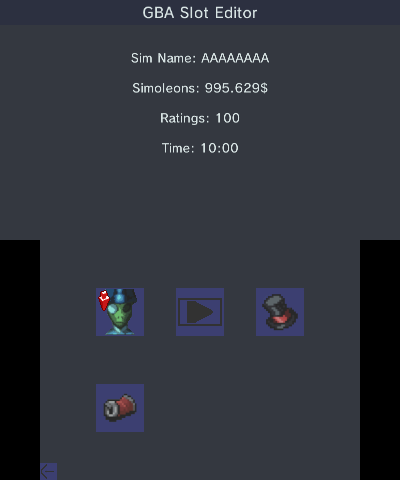
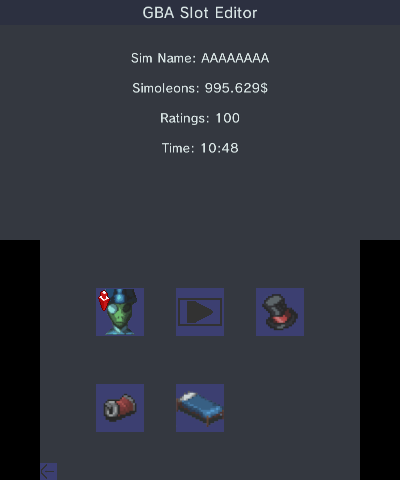
See desc for more.
- [GBA]: Added GBA Item Editing for: Pawn Shop, Saloon, Skill Shop, Mailbox and Inventory.

- [CORE]: Some fixes + updates.

Changed region(s): [[0.42, 0.7812, 0.57, 0.9062], [0.54, 0.2812, 0.6, 0.3125], [0.24, 0.5938, 0.27, 0.625]]

diff --git a/3ds/source/screens/editor/gba/GBAItemEditor.cpp b/3ds/source/screens/editor/gba/GBAItemEditor.cpp
@@ -1,0 +1,140 @@
+/*
+*   This file is part of Sim2Editor
+*   Copyright (C) 2020-2021 Universal-Team
+*
+*   This program is free software: you can redistribute it and/or modify
+*   it under the terms of the GNU General Public License as published by
+*   the Free Software Foundation, either version 3 of the License, or
+*   (at your option) any later version.
+*
+*   This program is distributed in the hope that it will be useful,
+*   but WITHOUT ANY WARRANTY; without even the implied warranty of
+*   MERCHANTABILITY or FITNESS FOR A PARTICULAR PURPOSE.  See the
+*   GNU General Public License for more details.
+*
+*   You should have received a copy of the GNU General Public License
+*   along with this program.  If not, see <http://www.gnu.org/licenses/>.
+*
+*   Additional Terms 7.b and 7.c of GPLv3 apply to this file:
+*       * Requiring preservation of specified reasonable legal notices or
+*         author attributions in that material or in the Appropriate Legal
+*         Notices displayed by works containing it.
+*       * Prohibiting misrepresentation of the origin of that material,
+*         or requiring that modified versions of such material be marked in
+*         reasonable ways as different from the original version.
+*/
+
+#include "Common.hpp"
+#include "GBAItemEditor.hpp"
+#include "ListSelection.hpp"
+#include "Strings.hpp"
+
+/* Go back. */
+void GBAItemEditor::Back() {
+	Gui::screenBack();
+	return;
+};
+
+void GBAItemEditor::Draw(void) const {
+	GFX::DrawTop();
+	Gui::DrawStringCentered(0, 3, 0.6f, TEXT_COLOR, "GBA Item Editor");
+
+	GFX::DrawBottom();
+
+	/* Draw Tabs. */
+	Gui::Draw_Rect(0, 0, 64, 20, (this->Tab == Tabs::Pawnshop ? KBD_KEYPRESSED : KD_KEYUNPRESSED));
+	Gui::Draw_Rect(64, 0, 64, 20, (this->Tab == Tabs::Saloon ? KBD_KEYPRESSED : KD_KEYUNPRESSED));
+	Gui::Draw_Rect(128, 0, 64, 20, (this->Tab == Tabs::Skills ? KBD_KEYPRESSED : KD_KEYUNPRESSED));
+	Gui::Draw_Rect(192, 0, 64, 20, (this->Tab == Tabs::Mailbox ? KBD_KEYPRESSED : KD_KEYUNPRESSED));
+	Gui::Draw_Rect(256, 0, 64, 20, (this->Tab == Tabs::Inventory ? KBD_KEYPRESSED : KD_KEYUNPRESSED));
+
+	Gui::DrawString(0 + 1, 3, 0.45f, TEXT_COLOR, "Pawn Shop");
+	Gui::DrawString(64 + 13, 3, 0.45f, TEXT_COLOR, "Saloon");
+	Gui::DrawString(128 + 18, 3, 0.45f, TEXT_COLOR, "Skills");
+	Gui::DrawString(192 + 10, 3, 0.45f, TEXT_COLOR, "Mailbox");
+	Gui::DrawString(256 + 6, 3, 0.45f, TEXT_COLOR, "Inventory");
+
+	for (uint8_t Idx = 0; Idx < 6; Idx++) {
+		Gui::DrawSprite(GFX::Sprites, sprites_stripe_idx, 250, this->Positions[5 + Idx].Y); // Draw Option Stripes.
+		Gui::DrawString(30, 34 + (Idx * 36), 0.5f, TEXT_COLOR, Strings::GBAItemNames_EN[this->ActiveItemGroup->ID(Idx)], 200);
+	}
+
+	Gui::Draw_Rect(this->Positions[11].X, this->Positions[11].Y, this->Positions[11].W, this->Positions[11].H, KBD_KEYPRESSED); // Back Icn.
+	Gui::DrawSprite(GFX::Sprites, sprites_back_btn_idx, this->Positions[11].X, this->Positions[11].Y);
+	Pointer::Draw();
+};
+
+/*
+	Select an Item from the List and set it, if changed.
+
+	const uint8_t Slot: The Item Slot to edit.
+*/
+void GBAItemEditor::SelectItem(const uint8_t Slot) {
+	std::unique_ptr<ListSelection> Ovl = std::make_unique<ListSelection>(Strings::GBAItemNames_EN, "Select an Item.", this->ActiveItemGroup->ID(Slot));
+	const uint8_t ID = Ovl->Action();
+
+	if (ID != this->ActiveItemGroup->ID(Slot)) this->ActiveItemGroup->ID(Slot, ID);
+};
+
+/*
+	Switch Tabs and initialize it to the ActiveItemGroup.
+
+	const Tabs T: The Tab which to switch to.
+*/
+void GBAItemEditor::SwitchTab(const Tabs T) {
+	this->Tab = T;
+
+	switch(this->Tab) {
+		case Tabs::Pawnshop:
+			this->ActiveItemGroup = this->Slot->PawnShop();
+			break;
+
+		case Tabs::Saloon:
+			this->ActiveItemGroup = this->Slot->Saloon();
+			break;
+
+		case Tabs::Skills:
+			this->ActiveItemGroup = this->Slot->Skills();
+			break;
+
+		case Tabs::Mailbox:
+			this->ActiveItemGroup = this->Slot->Mailbox();
+			break;
+
+		case Tabs::Inventory:
+			this->ActiveItemGroup = this->Slot->Inventory();
+			break;
+	}
+};
+
+void GBAItemEditor::Logic(uint32_t hDown, uint32_t hHeld, touchPosition touch) {
+	Pointer::FrameHandle();
+	Pointer::ScrollHandle(hHeld);
+	uint32_t hRepeat = hidKeysDownRepeat();
+
+	if (hDown & KEY_A) {
+		for (auto &Pos : this->Positions) {
+			if (Pointer::Callback(Pos, true)) {
+				break;
+			}
+		}
+	}
+
+	if (hDown & KEY_TOUCH) {
+		for (auto &Pos : this->Positions) {
+			if (Touching(Pos, touch, true)) {
+				break;
+			}
+		}
+	}
+
+	if (hDown & KEY_B) this->Back();
+
+	if (hRepeat & KEY_L) {
+		if (this->Tab != Tabs::Pawnshop) this->SwitchTab((Tabs)((uint8_t)this->Tab - 0x1));
+	}
+
+	if (hRepeat & KEY_R) {
+		if (this->Tab != Tabs::Inventory) this->SwitchTab((Tabs)((uint8_t)this->Tab + 0x1));
+	}
+};

diff --git a/3ds/include/screens/editor/gba/GBAItemEditor.hpp b/3ds/include/screens/editor/gba/GBAItemEditor.hpp
@@ -24,35 +24,46 @@
 *         reasonable ways as different from the original version.
 */
 
-#ifndef _SIM2EDITOR_GBA_SLOT_EDITOR_HPP
-#define _SIM2EDITOR_GBA_SLOT_EDITOR_HPP
+#ifndef _SIM2EDITOR_GBA_ITEM_EDITOR_HPP
+#define _SIM2EDITOR_GBA_ITEM_EDITOR_HPP
 
+#include "GBAItem.hpp"
 #include "GBASlot.hpp"
 #include "Pointer.hpp"
 #include "screen.hpp"
 #include <vector>
 
-class GBASlotEditor : public Screen {
+class GBAItemEditor : public Screen {
 public:
-	GBASlotEditor(std::shared_ptr<GBASlot> GBASlot) : Slot(std::move(GBASlot)) { Pointer::SetPos(this->Positions[0]); };
+	GBAItemEditor(std::shared_ptr<GBASlot> &Slot) : Slot(Slot) { this->SwitchTab(Tabs::Pawnshop); };
 	void Draw(void) const override;
 	void Logic(u32 hDown, u32 hHeld, touchPosition touch) override;
 private:
-	std::shared_ptr<GBASlot> Slot = nullptr;
+	enum class Tabs : uint8_t { Pawnshop, Saloon, Skills, Mailbox, Inventory };
 
-	void GotoCastEditor();
-	void GotoEpisodeEditor();
-	void GotoMoveEditor();
-	void GotoGeneralEditor();
-	void GotoItemEditor();
+	Tabs Tab = Tabs::Pawnshop;
+	std::shared_ptr<GBASlot> Slot = nullptr;
+	std::unique_ptr<GBAItem> ActiveItemGroup = nullptr;
+
 	void Back();
+	void SelectItem(const uint8_t Slot);
+	void SwitchTab(const Tabs T);
 
 	const std::vector<PointerStr> Positions = {
-		{ 56, 48, 48, 48, [this]() { this->GotoCastEditor(); } },
-		{ 136, 48, 48, 48, [this]() { this->GotoEpisodeEditor(); } },
-		{ 216, 48, 48, 48, [this]() { this->GotoMoveEditor(); } },
-		{ 56, 144, 48, 48, [this]() { this->GotoGeneralEditor(); } },
-		{ 136, 144, 48, 48, [this]() { this->GotoItemEditor(); } },
+		{ 0, 0, 64, 20, [this]() { this->SwitchTab(Tabs::Pawnshop); } },
+		{ 64, 0, 64, 20, [this]() { this->SwitchTab(Tabs::Saloon); } },
+		{ 128, 0, 64, 20, [this]() { this->SwitchTab(Tabs::Skills); } },
+		{ 192, 0, 64, 20, [this]() { this->SwitchTab(Tabs::Mailbox); } },
+		{ 256, 0, 64, 20, [this]() { this->SwitchTab(Tabs::Inventory); } },
+
+		{ 250, 30, 24, 24, [this]() { this->SelectItem(0); } },
+		{ 250, 66, 24, 24, [this]() { this->SelectItem(1); } },
+		{ 250, 102, 24, 24, [this]() { this->SelectItem(2); } },
+		{ 250, 138, 24, 24, [this]() { this->SelectItem(3); } },
+		{ 250, 174, 24, 24, [this]() { this->SelectItem(4); } },
+		{ 250, 210, 24, 24, [this]() { this->SelectItem(5); } },
+
+
 		{ 0, 223, 17, 17, [this]() { this->Back(); } }
 	};
 };

diff --git a/3ds/source/screens/editor/gba/GBASlotEditor.cpp b/3ds/source/screens/editor/gba/GBASlotEditor.cpp
@@ -28,6 +28,7 @@
 #include "GBACastEditor.hpp"
 #include "GBAEpisodeEditor.hpp"
 #include "GBAGeneralEditor.hpp"
+#include "GBAItemEditor.hpp"
 #include "GBASlotEditor.hpp"
 #include "GBASocialMoveEditor.hpp"
 #include "SimUtils.hpp"
@@ -40,9 +41,10 @@ void GBASlotEditor::GotoEpisodeEditor() { Gui::setScreen(std::make_unique<GBAEpi
 void GBASlotEditor::GotoMoveEditor() { Gui::setScreen(std::make_unique<GBASocialMoveEditor>(this->Slot), false, true); };
 /* Go to General Editor. */
 void GBASlotEditor::GotoGeneralEditor() { Gui::setScreen(std::make_unique<GBAGeneralEditor>(this->Slot), false, true); };
+/* Go to Item Editor. */
+void GBASlotEditor::GotoItemEditor() { Gui::setScreen(std::make_unique<GBAItemEditor>(this->Slot), false, true); };
 /* Go back to Editor. */
 void GBASlotEditor::Back() {
-	Pointer::SetPos(100, 80);
 	Gui::screenBack();
 	return;
 };
@@ -70,8 +72,11 @@ void GBASlotEditor::Draw(void) const {
 	Gui::Draw_Rect(this->Positions[3].X, this->Positions[3].Y, this->Positions[3].W, this->Positions[3].H, KBD_KEYPRESSED); // General Icn.
 	Gui::DrawSprite(GFX::Sprites, sprites_collectables_btn_idx, this->Positions[3].X, this->Positions[3].Y);
 
-	Gui::Draw_Rect(this->Positions[4].X, this->Positions[4].Y, this->Positions[4].W, this->Positions[4].H, KBD_KEYPRESSED); // Back Icn.
-	Gui::DrawSprite(GFX::Sprites, sprites_back_btn_idx, this->Positions[4].X, this->Positions[4].Y);
+	Gui::Draw_Rect(this->Positions[4].X, this->Positions[4].Y, this->Positions[4].W, this->Positions[4].H, KBD_KEYPRESSED); // Item Icn.
+	Gui::DrawSprite(GFX::Sprites, sprites_item_btn_idx, this->Positions[4].X, this->Positions[4].Y + 5);
+
+	Gui::Draw_Rect(this->Positions[5].X, this->Positions[5].Y, this->Positions[5].W, this->Positions[5].H, KBD_KEYPRESSED); // Back Icn.
+	Gui::DrawSprite(GFX::Sprites, sprites_back_btn_idx, this->Positions[5].X, this->Positions[5].Y);
 
 	Pointer::Draw();
 };

diff --git a/3ds/source/overlays/ListSelection.cpp b/3ds/source/overlays/ListSelection.cpp
@@ -32,6 +32,7 @@
 ListSelection::ListSelection(const std::vector<std::string> &List, const std::string &Text, const int OldSelection) : Text(Text), OldSelection(OldSelection) {
 	this->Browse = std::make_unique<Browser>(List);
 	this->List = this->Browse->GetList();
+	this->Browse->SetSelection(this->OldSelection);
 };
 
 /* Pages. */
@@ -106,10 +107,11 @@ int ListSelection::Action() const {
 		hidTouchRead(&T);
 		uint32_t hDown = hidKeysDown();
 		uint32_t hHeld = hidKeysHeld();
+		uint32_t hRepeat = hidKeysDownRepeat();
 		Pointer::ScrollHandle(hHeld);
 
-		if (hDown & KEY_R) this->NextPage();
-		if (hDown & KEY_L) this->PrevPage();
+		if (hRepeat & KEY_R) this->NextPage();
+		if (hRepeat & KEY_L) this->PrevPage();
 		if (hDown & KEY_B) this->BCall();
 
 		if (hDown & KEY_A) {

diff --git a/3ds/source/screens/Settings.cpp b/3ds/source/screens/Settings.cpp
@@ -67,7 +67,6 @@ void Settings::SetPointerSpeed() {
 
 /* Go back to MainMenu. */
 void Settings::Back() {
-	Pointer::SetPos(90, 170);
 	Gui::screenBack();
 	return;
 };
@@ -145,10 +144,8 @@ void Settings::DrawPages() const {
 
 			/* Change this, after changes to the 3DS version. */
 			Gui::DrawStringCentered(0, 130, 0.4f, TEXT_COLOR,
-				"* [GBA]: Added Skill Points Editing.\n"
-				"* [GBA]: Display the current Episode you are in.\n"
-				"* [GBA]: Proper Movement Offset support.\n"
-				"* [Loader]: Add Warning that NDS SAV Editing is not supported right now.",
+				"* [GBA]: Added Item Editing.\n"
+				"*[CORE]: Some Small fixes.",
 			310);
 			break;
 	}

diff --git a/3ds/source/overlays/FileSelection.cpp b/3ds/source/overlays/FileSelection.cpp
@@ -168,10 +168,11 @@ std::string FileSelection::Action() const {
 		hidTouchRead(&T);
 		uint32_t hDown = hidKeysDown();
 		uint32_t hHeld = hidKeysHeld();
+		uint32_t hRepeat = hidKeysDownRepeat();
 		Pointer::ScrollHandle(hHeld);
 
-		if (hDown & KEY_R) this->NextPage();
-		if (hDown & KEY_L) this->PrevPage();
+		if (hRepeat & KEY_R) this->NextPage();
+		if (hRepeat & KEY_L) this->PrevPage();
 		if (hDown & KEY_B) this->BCall();
 
 		if (hDown & KEY_A) {

diff --git a/3ds/source/screens/editor/gba/GBAEpisodeEditor.cpp b/3ds/source/screens/editor/gba/GBAEpisodeEditor.cpp
@@ -148,7 +148,6 @@ void GBAEpisodeEditor::EpisodeSelectLogic(u32 hDown, u32 hHeld, touchPosition to
 
 /* Screen go back. */
 void GBAEpisodeEditor::Back() {
-	Pointer::SetPos(136, 48);
 	Gui::screenBack();
 	return;
 };

diff --git a/3ds/source/screens/editor/gba/GBASocialMoveEditor.cpp b/3ds/source/screens/editor/gba/GBASocialMoveEditor.cpp
@@ -127,7 +127,6 @@ void GBASocialMoveEditor::SelectMove() {
 
 /* Go back to the Slot Editor. */
 void GBASocialMoveEditor::Back() {
-	Pointer::SetPos(56, 48);
 	Gui::screenBack();
 	return;
 };

diff --git a/3ds/source/screens/editor/gba/GBACastEditor.cpp b/3ds/source/screens/editor/gba/GBACastEditor.cpp
@@ -171,7 +171,6 @@ void GBACastEditor::SelectCast() {
 
 /* Goes screen back. */
 void GBACastEditor::Back() {
-	Pointer::SetPos(56, 48);
 	Gui::screenBack();
 	return;
 };

diff --git a/3ds/source/screens/editor/Editor.cpp b/3ds/source/screens/editor/Editor.cpp
@@ -43,8 +43,8 @@ void Editor::Back() {
 		}
 	}
 
-	Pointer::SetPos(90, 35);
 	Gui::screenBack();
+	return;
 };
 
 /* Loading a SAV Operation. */

diff --git a/README.md b/README.md
@@ -30,6 +30,9 @@ For a list of features of the C++ Core, check [this](https://github.com/Universa
 ### General Editor
 ![](https://github.com/Universal-Team/Sim2Editor/blob/console/screenshots/3DS/gbaGeneralEditorMain.png) ![](https://github.com/Universal-Team/Sim2Editor/blob/console/screenshots/3DS/gbaGeneralEditorCollectables.png) ![](https://github.com/Universal-Team/Sim2Editor/blob/console/screenshots/3DS/gbaGeneralEditorSkillPoints.png)
 
+### Item Editor
+![](https://github.com/Universal-Team/Sim2Editor/blob/console/screenshots/3DS/gbaItemEditor.png)
+
 ### Slot Editor
 ![](https://github.com/Universal-Team/Sim2Editor/blob/console/screenshots/3DS/gbaSlotSelector.png) ![](https://github.com/Universal-Team/Sim2Editor/blob/console/screenshots/3DS/gbaSlotEditor.png)
 

diff --git a/Features-List.md b/Features-List.md
@@ -44,6 +44,12 @@
 - [x] Edit Hotness Skill Points.
 - [x] Edit Intellect Skill Points.
 
+### Item Editor
+- [x] Edit the 6 Item Slots of the Pawn Shop.
+- [x] Edit the 6 Item Slots of the Saloon.
+- [x] Edit the 6 Item Slots of the Skill Shop.
+- [x] Edit the 6 Item Slots of the Mailbox.
+- [x] Edit the 6 Item Slots of the Inventory.
 
 ## NDS (The Sims 2 Version)
 
